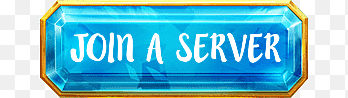
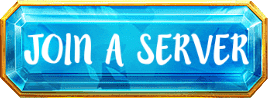
styling gui

diff --git a/src/main/resources/css/global.css b/src/main/resources/css/global.css
@@ -104,6 +104,9 @@
     -fx-background-image: url("../images/bannerMenu.png");
     -fx-background-size: contain;
     -fx-background-repeat: no-repeat;
+    -fx-layoutX: "100";
+    -fx-layoutY: "100";
+
 }
 
 .menuField {

diff --git a/src/main/resources/css/menu_scene.css b/src/main/resources/css/menu_scene.css
@@ -1,6 +1,9 @@
+
 .rootPane {
     -fx-background-image: url("../images/eriantysLogo.png");
     -fx-background-size: stretch;
+    -fx-fitHeight:"427.5";
+    -fx-fitWidth:"900.0";
 }
 
 .playBtn {
